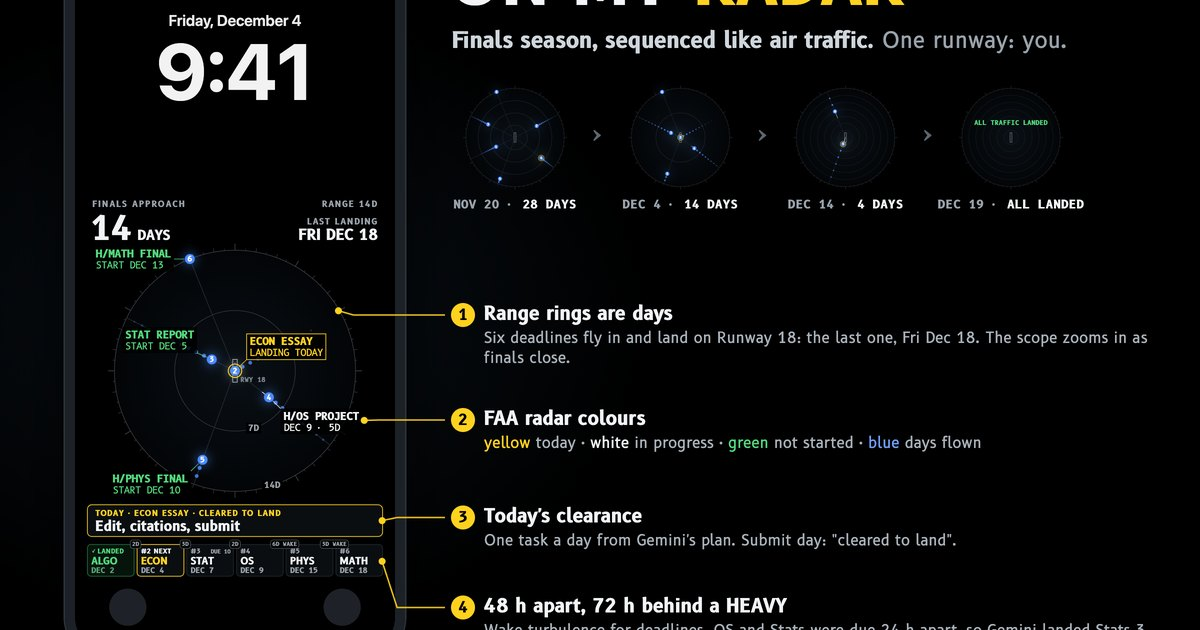
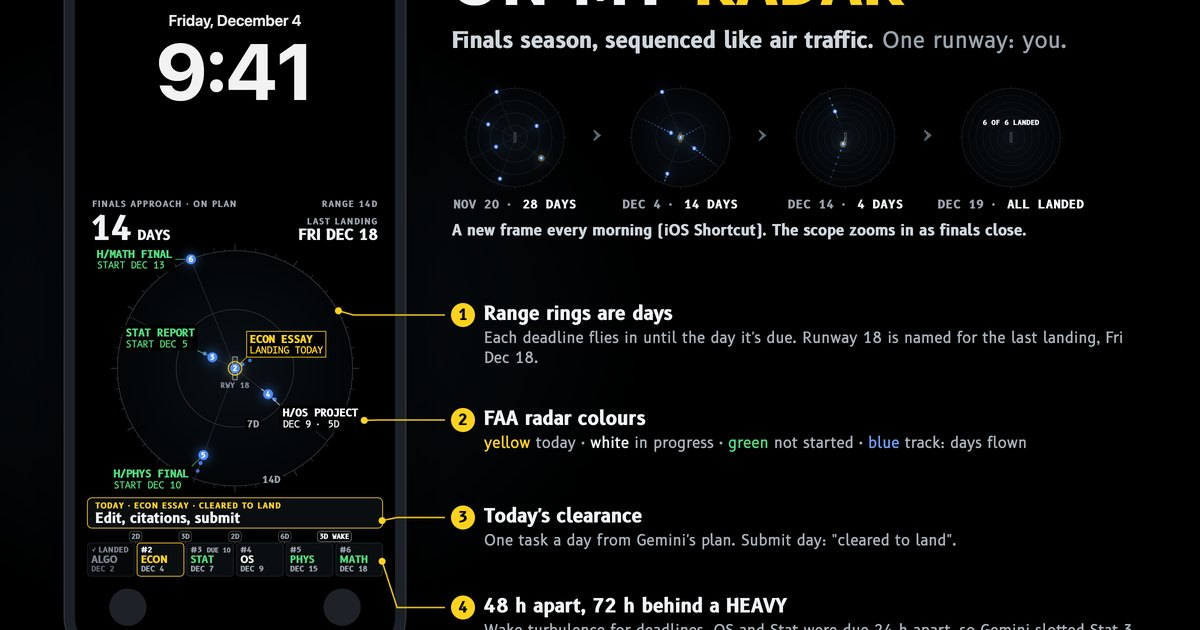
Judge fixes: trails start on day 1, ladder uses scope colours, on-plan header, wake label only at the minimum

diff --git a/radar.js b/radar.js
@@ -60,6 +60,8 @@
       landed: arr.filter((a) => a.status === "landed").length,
       done: arr.every((a) => a.status === "landed"),
       before: today < dn(plan.start),
+      elapsed: today - dn(plan.start),
+      goArounds: arr.reduce((n, a) => n + (a.goAround || 0), 0),
     };
   }
 
@@ -127,8 +129,6 @@
     ctx.beginPath(); ctx.rect(-9, -46, 18, 92); ctx.fill(); ctx.stroke();
     ctx.setLineDash([10, 9]); ctx.strokeStyle = "#5c656e"; ctx.beginPath(); ctx.moveTo(0, -36); ctx.lineTo(0, 36); ctx.stroke(); ctx.setLineDash([]);
     ctx.restore();
-    if (!g.noTags) text(ctx, "RWY " + (g.runway || "18"), cx + 22, cy + 46, font(700, 26, MONO), "#7c858e", "left");
-    g.avoid = [...(g.avoid || []), { x: cx + 16, y: cy + 20, w: 110, h: 34 }];
 
     // ring labels along the 160 deg bearing
     const labels = [];
@@ -136,10 +136,10 @@
       if (range <= 7 && d !== 3 && d !== 5 && d !== 7) continue;
       const [x, y] = pol(cx, cy, d * ppd, 162);
       const s = d + "D";
-      const f = font(700, 34, MONO), w = measure(ctx, s, f);
-      ctx.fillStyle = C.bg; ctx.fillRect(x - w / 2 - 8, y - 22, w + 16, 44);
+      const f = font(700, 38, MONO), w = measure(ctx, s, f);
+      ctx.fillStyle = C.bg; ctx.fillRect(x - w / 2 - 8, y - 24, w + 16, 48);
       text(ctx, s, x, y + 1, f, C.ringLabel, "center", 0, "middle");
-      labels.push({ x: x - w / 2 - 8, y: y - 22, w: w + 16, h: 44 });
+      labels.push({ x: x - w / 2 - 8, y: y - 24, w: w + 16, h: 48 });
     }
     g.ringLabels = labels;
 
@@ -149,18 +149,24 @@
       if (a.status === "landed") continue;
       const r = Math.max(0, a.d - (a.status === "landing" ? 0 : fr)) * ppd;
       const [x, y] = pol(cx, cy, r, a.brg);
-      for (let k = 10; k >= 1; k--) {
-        const rr = (a.d + k - fr) * ppd; if (rr > R - 6) continue;
-        const [hx, hy] = pol(cx, cy, rr, a.brg);
-        ctx.globalAlpha = 0.95 - k * 0.07; ctx.fillStyle = C.blue;
-        ctx.beginPath(); ctx.arc(hx, hy, 8.5 - k * 0.45, 0, Math.PI * 2); ctx.fill();
+      // history trail: one dot per day already flown since the plan started (at most 8)
+      const trail = [];
+      for (let k = 1; k <= Math.min(8, st.elapsed); k++) {
+        const rr = (a.d + k - fr) * ppd; if (rr > R - 6) break;
+        trail.push(pol(cx, cy, rr, a.brg));
       }
-      ctx.globalAlpha = 1;
-      if (a.status === "owned" && a.d >= 1) {
-        const [px, py] = pol(cx, cy, Math.max(0, a.d - 1 - fr) * ppd, a.brg);
-        ctx.strokeStyle = C.white; ctx.lineWidth = 3; ctx.beginPath(); ctx.moveTo(x, y); ctx.lineTo(px, py); ctx.stroke();
+      const pred = a.status === "owned" && a.d >= 1 ? pol(cx, cy, Math.max(0, a.d - 1 - fr) * ppd, a.brg) : null;
+      items.push({ a, x, y, trail, pred });
+    }
+    // runway label: first spot around the runway that no target sits on
+    if (!g.noTags) {
+      const lab = "RWY " + (g.runway || "18"), lf = font(700, 30, MONO), lw = measure(ctx, lab, lf);
+      const spots = [[cx + 20, cy + 26], [cx - 20 - lw, cy + 26], [cx + 20, cy - 56], [cx - 20 - lw, cy - 56], [cx - lw / 2, cy + 58]];
+      const free = spots.find(([x, y]) => items.every((it) => it.x < x - 30 || it.x > x + lw + 30 || it.y < y - 30 || it.y > y + 64));
+      if (free) {
+        text(ctx, lab, free[0], free[1] + 22, lf, "#7c858e", "left");
+        g.avoid = [...(g.avoid || []), { x: free[0] - 4, y: free[1] - 4, w: lw + 8, h: 36 }];
       }
-      items.push({ a, x, y });
     }
     // labels & targets
     placeTags(ctx, st, items, g);
@@ -215,6 +221,19 @@
       placed.push(best.rect);
       out.push({ it, L, best, f1, f2 });
     }
+    // trails stop where a label box would cover them, so no loose dots appear beyond a label
+    const boxes = out.filter((o) => !o.noTag).map((o) => o.best.rect);
+    const inBox = ([x, y]) => boxes.some((r) => x > r.x - 10 && x < r.x + r.w + 10 && y > r.y - 10 && y < r.y + r.h + 10);
+    for (const it of items) {
+      for (let k = 0; k < it.trail.length; k++) {
+        if (inBox(it.trail[k])) break;
+        const [hx, hy] = it.trail[k];
+        ctx.globalAlpha = 0.95 - (k + 1) * 0.08; ctx.fillStyle = C.blue;
+        ctx.beginPath(); ctx.arc(hx, hy, 8.5 - (k + 1) * 0.5, 0, Math.PI * 2); ctx.fill();
+      }
+      ctx.globalAlpha = 1;
+      if (it.pred) { ctx.strokeStyle = C.white; ctx.lineWidth = 3; ctx.beginPath(); ctx.moveTo(it.x, it.y); ctx.lineTo(it.pred[0], it.pred[1]); ctx.stroke(); }
+    }
     // draw leaders, then targets, then tags
     for (const o of out) {
       if (o.noTag) continue;
@@ -252,10 +271,10 @@
   /* ---------------- lock screen layout (1290 x 2796) ---------------- */
   function drawLock(ctx, st, plan, opts) {
     ctx.fillStyle = C.bg; ctx.fillRect(0, 0, 1290, 2796);
-    const g = { cx: 645, cy: 1652, R: 486, top: 1140, bottom: 2168, frac: opts.frac || 0, runway: plan.runway };
+    const g = { cx: 645, cy: 1642, R: 474, top: 1140, bottom: 2146, frac: opts.frac || 0, runway: plan.runway };
 
     // header
-    text(ctx, (plan.title || "FINALS") + " APPROACH", 70, 992, font(700, 34, SANS), C.gray, "left", 5);
+    text(ctx, (plan.title || "FINALS") + " APPROACH · " + (st.goArounds ? `${st.goArounds} GO-AROUND${st.goArounds > 1 ? "S" : ""}` : "ON PLAN"), 70, 992, font(700, 34, SANS), st.goArounds ? C.yellow : C.gray, "left", 4);
     if (!st.done) {
       const big = font(700, 132, SANS);
       const n = st.daysLeft === 0 ? "TODAY" : String(st.daysLeft);
@@ -271,28 +290,28 @@
 
     drawScope(ctx, st, g);
     if (st.done) {
-      text(ctx, `${st.arr.length} OF ${st.arr.length} LANDED`, g.cx, g.cy - 120, font(700, 64, MONO), C.green, "center");
+      text(ctx, `${st.arr.length} OF ${st.arr.length} LANDED`, g.cx, g.cy - 120, font(700, 64, MONO), C.white, "center");
       text(ctx, "FINALS COMPLETE", g.cx, g.cy + 150, font(700, 48, MONO), C.gray, "center", 4);
     }
 
     // clearance strip
-    const y0 = 2192;
-    ctx.fillStyle = C.panel; rrect(ctx, 50, y0, 1190, 128, 18); ctx.fill();
-    ctx.strokeStyle = st.task ? C.yellow : C.line; ctx.lineWidth = 3; rrect(ctx, 50, y0, 1190, 128, 18); ctx.stroke();
+    const y0 = 2164;
+    ctx.fillStyle = C.panel; rrect(ctx, 50, y0, 1190, 122, 18); ctx.fill();
+    ctx.strokeStyle = st.task ? C.yellow : C.line; ctx.lineWidth = 3; rrect(ctx, 50, y0, 1190, 122, 18); ctx.stroke();
     if (st.task) {
       const a = st.arr.find((x) => x.id === st.task.id);
       const landing = a && a.status === "landing";
       const lab = landing ? "TODAY · " + a.name + " · CLEARED TO LAND" : "TODAY'S CLEARANCE · " + (a ? a.name : st.task.id);
-      text(ctx, lab, 82, y0 + 46, font(700, 32, SANS), C.yellow, "left", 3);
+      text(ctx, lab, 82, y0 + 44, font(700, 32, SANS), C.yellow, "left", 3);
       let f = 56; while (measure(ctx, st.task.text, font(700, f, SANS)) > 1120 && f > 40) f -= 2;
-      text(ctx, st.task.text, 82, y0 + 106, font(700, f, SANS), C.white);
+      text(ctx, st.task.text, 82, y0 + 102, font(700, f, SANS), C.white);
     } else if (st.done) {
-      text(ctx, "CLEARED: WINTER BREAK", 82, y0 + 46, font(700, 32, SANS), C.green, "left", 3);
-      text(ctx, st.arr.length === 6 ? "Sleep in. You landed all six." : "Sleep in. Everything landed.", 82, y0 + 106, font(700, 56, SANS), C.white);
+      text(ctx, "CLEARED: WINTER BREAK", 82, y0 + 44, font(700, 32, SANS), C.gray, "left", 3);
+      text(ctx, "Finals are over. Sleep in.", 82, y0 + 102, font(700, 56, SANS), C.white);
     }
 
     // landing sequence ladder
-    drawLadder(ctx, st, 50, 2352, 1190, 128);
+    drawLadder(ctx, st, 50, 2346, 1190, 134);
   }
 
   function drawLadder(ctx, st, x0, y0, W, H) {
@@ -301,23 +320,25 @@
     st.arr.forEach((a, i) => {
       const x = x0 + i * (cw + gap);
       const landed = a.status === "landed", next = a.id === nextId, today = st.task && st.task.id === a.id;
-      const col = landed ? C.green : a.ca ? C.red : today ? C.yellow : C.white;
-      ctx.fillStyle = landed ? "#07140c" : C.panel; rrect(ctx, x, y0, cw, H, 14); ctx.fill();
-      ctx.strokeStyle = landed ? "#1f6b3a" : a.ca ? C.red : today ? C.yellow : C.line; ctx.lineWidth = 3; rrect(ctx, x, y0, cw, H, 14); ctx.stroke();
-      text(ctx, landed ? "✓ LANDED" : `#${a.seq}` + (next ? " NEXT" : ""), x + 16, y0 + 36, font(700, 26, SANS), landed ? C.green : next ? C.white : C.gray, "left", 1);
+      const col = landed ? "#7c858e" : a.ca ? C.red : today ? C.yellow : a.status === "unowned" ? C.green : C.white;
+      ctx.fillStyle = landed ? "#06080a" : C.panel; rrect(ctx, x, y0, cw, H, 14); ctx.fill();
+      ctx.strokeStyle = landed ? "#1a1f24" : a.ca ? C.red : today ? C.yellow : C.line; ctx.lineWidth = 3; rrect(ctx, x, y0, cw, H, 14); ctx.stroke();
+      text(ctx, landed ? "✓ LANDED" : `#${a.seq}`, x + 16, y0 + 38, font(700, 30, SANS), landed ? "#7c858e" : next ? C.white : C.gray, "left", 1);
       text(ctx, a.course, x + 16, y0 + 80, font(700, 40, SANS), col);
-      text(ctx, md(a.slot), x + 16, y0 + 116, font(700, 30, MONO), landed ? "#5aa877" : C.gray, "left", -1);
-      if (a.due !== a.slot && !landed) text(ctx, "DUE " + +a.due.slice(8, 10), x + cw - 12, y0 + 36, font(700, 22, MONO), landed ? "#5aa877" : C.gray, "right", -1);
+      text(ctx, md(a.slot), x + 16, y0 + 116, font(700, 30, MONO), landed ? "#5d666f" : C.gray, "left", -1);
+      if (a.due !== a.slot && !landed) text(ctx, "DUE " + +a.due.slice(8, 10), x + cw - 12, y0 + 38, font(700, 26, MONO), C.gray, "right", -1);
     });
     // separation between landings, drawn on the gaps
     st.arr.forEach((a, i) => {
       if (!i) return;
       const x = x0 + i * (cw + gap) - gap / 2;
-      const s = a.wake ? `${a.gap}D WAKE` : `${a.gap}D`;
-      const f = font(700, 22, MONO), w = measure(ctx, s, f) + 14;
-      ctx.fillStyle = "#000"; rrect(ctx, x - w / 2, y0 - 18, w, 34, 10); ctx.fill();
-      ctx.strokeStyle = a.ca ? C.red : C.dim; ctx.lineWidth = 2; rrect(ctx, x - w / 2, y0 - 18, w, 34, 10); ctx.stroke();
-      text(ctx, s, x, y0 - 0, f, a.ca ? C.red : C.gray, "center", 0, "middle");
+      const s = a.wake && a.gap === a.gapNeed ? `${a.gap}D WAKE` : `${a.gap}D`;
+      const f = font(700, 28, MONO), w = measure(ctx, s, f, -1) + 16;
+      const cyc = y0 - 26;
+      ctx.strokeStyle = a.ca ? C.red : C.dim; ctx.lineWidth = 2; ctx.beginPath(); ctx.moveTo(x, cyc + 21); ctx.lineTo(x, y0 + 4); ctx.stroke();
+      ctx.fillStyle = "#000"; rrect(ctx, x - w / 2, cyc - 21, w, 42, 12); ctx.fill();
+      ctx.strokeStyle = a.ca ? C.red : a.wake && a.gap === a.gapNeed ? C.gray : C.dim; ctx.lineWidth = 2; rrect(ctx, x - w / 2, cyc - 21, w, 42, 12); ctx.stroke();
+      text(ctx, s, x, cyc + 1, f, a.ca ? C.red : a.wake && a.gap === a.gapNeed ? C.white : C.gray, "center", -1, "middle");
     });
   }
 
@@ -341,7 +362,7 @@
       if (!opts.transparent) { ctx.fillStyle = C.bg; ctx.fillRect(0, 0, 1100, 1100); }
       const g = { cx: 550, cy: 550, R: 470, top: 10, bottom: 1090, minX: 10, maxX: 1090, frac: opts.frac || 0, runway: plan.runway, noTags: !!opts.noTags };
       drawScope(ctx, st, g);
-      if (st.done) text(ctx, "ALL TRAFFIC LANDED", 550, 430, font(700, 60, MONO), C.green, "center");
+      if (st.done) text(ctx, `${st.arr.length} OF ${st.arr.length} LANDED`, 550, 430, font(700, 64, MONO), C.white, "center");
     } else {
       const s = W / 1290; ctx.scale(s, s);
       drawLock(ctx, st, plan, opts);

diff --git a/index.html b/index.html
@@ -123,6 +123,7 @@
       <ol>
         <li>Download <b>Every day (.zip)</b>, unzip it, and put the <span class="mono">OnMyRadar</span> folder in iCloud Drive › Shortcuts.</li>
         <li>Shortcuts › Automation › New › Time of Day, 6:00 AM, Daily, Run Immediately. Actions: Current Date → Format Date (custom, <span class="mono">yyyy-MM-dd</span>) → Get File <span class="mono">OnMyRadar/[Formatted Date].png</span> → Set Wallpaper Photo (Lock Screen).</li>
+        <li>Settings › Notifications › Display As: <b>Count</b>, so notifications don't cover the clearance.</li>
         <li>Open the <b>.ics</b> file to add a 7:30 AM reminder with each day's clearance to your calendar.</li>
       </ol>
       <p class="muted">Skipped a day? Untick it above, then download again: the go-around is in the new images.</p>
@@ -147,7 +148,7 @@
     <div class="rules">
       <div class="rule"><b>Range rings are days</b>Each deadline is an arrival flying straight in. Its distance from the runway is the days until it lands (the day you submit it). The scope zooms from 28 to 7 days as finals close in.</div>
       <div class="rule"><b>Separation: 48 h</b>No two landings within 48 hours. Behind a <span class="mono">H/</span> heavy one, 72 hours, the way controllers leave extra space behind a heavy aircraft for its wake turbulence. Here the wake is how tired you are.</div>
-      <div class="rule"><b>Conflict alert</b>The official due dates had the OS project and the stats report 24 hours apart. Gemini, playing approach control, landed the report 3 days early (Dec 7, due Dec 10) ahead of the OS project (Dec 9).</div>
+      <div class="rule"><b>Conflict alert</b>The official due dates had the OS project and the stats report 24 hours apart. Gemini, playing approach control, slotted the report 3 days early (Dec 7, due Dec 10), ahead of the OS project (Dec 9).</div>
       <div class="rule"><b>FAA colour code</b><span class="sw" style="background:var(--green)"></span>green: not started yet (unowned) · <span class="sw" style="background:var(--ink)"></span>white: in progress (yours) · <span class="sw" style="background:var(--yellow)"></span>yellow: today · <span class="sw" style="background:var(--blue)"></span>blue: the days already flown · <span class="sw" style="background:var(--red)"></span>red: conflict. Black background, dim gray rings: FAA JO 7210.3 §3-9-1.</div>
       <div class="rule"><b>Runway 18</b>The last landing is Friday Dec 18, so everything lands on runway 18. Your own plan gets the runway of its last date.</div>
       <div class="rule"><b>Type</b>Set in B612, the open typeface Airbus commissioned for cockpit displays (SIL Open Font License).</div>

diff --git a/README.md b/README.md
@@ -19,14 +19,14 @@ distance from the runway is the number of days until it lands (the day it is sub
 ## The sample plan
 A CS junior's finals, Nov 20 to Dec 18, 2026: ALGO PSET, ECON ESSAY, STAT REPORT, OS PROJECT (heavy),
 PHYS FINAL (heavy, fixed), MATH FINAL (heavy, fixed). The official due dates put the OS project and the stats
-report 24 hours apart; the plan lands the report 3 days early, on Dec 7, ahead of the OS project on Dec 9.
+report 24 hours apart; the plan slots the report 3 days early, on Dec 7, ahead of the OS project on Dec 9.
 Landing slots, start days and one task per day were planned with Gemini.
 
 ## Use it
 - **Download this day (PNG)**, **Every day (.zip)** and **Clearance reminders (.ics)** on the live page.
 - iOS: put the unzipped `OnMyRadar` folder in iCloud Drive/Shortcuts, then Shortcuts → Automation → Time of Day
   (6:00 AM, daily, run immediately): Current Date → Format Date (`yyyy-MM-dd`) → Get File
-  `OnMyRadar/[Formatted Date].png` → Set Wallpaper Photo (Lock Screen).
+  `OnMyRadar/[Formatted Date].png` → Set Wallpaper Photo (Lock Screen). Set Notifications → Display As: Count.
 - **Your own deadlines:** one per line, `name, YYYY-MM-DD`, plus `H` (heavy) and `X` (exam, can't move), or import
   a calendar `.ics`. The sequencer tries every landing order and picks the one that pulls the least work earlier
   while keeping separation. Your plan lives in the URL and your browser only.
